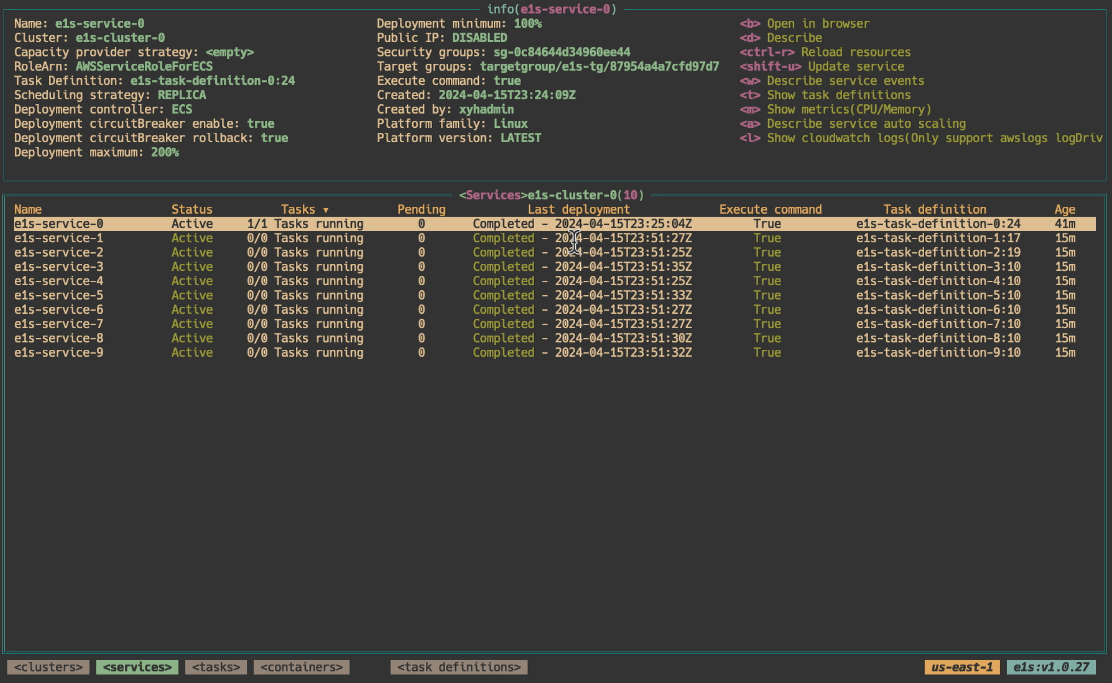
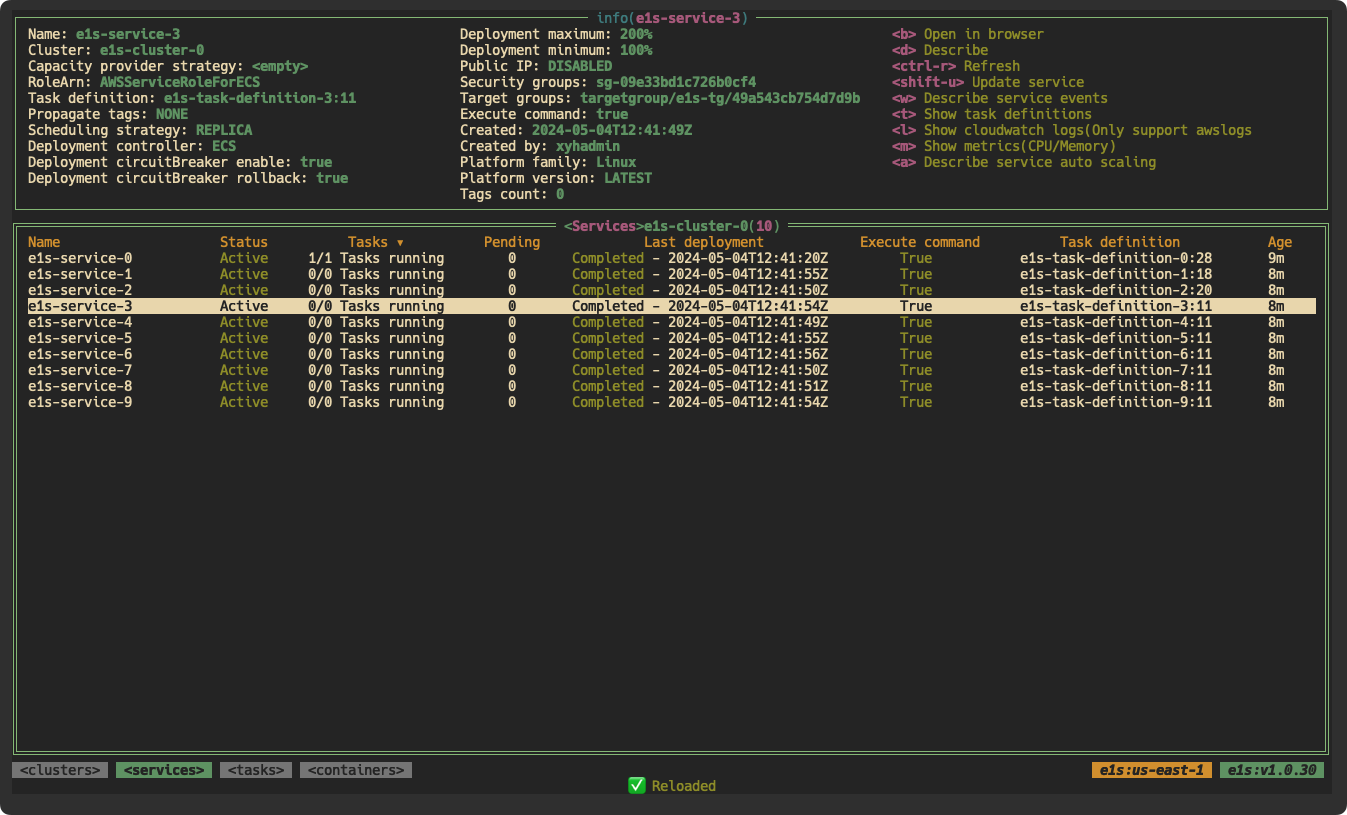
docs: update readme theme examples (#211)
* docs: update readme theme examples

* add help screenshot

Changed region(s): [[0.0, 0.0, 1.0, 1.0]]

diff --git a/README.md b/README.md
@@ -187,11 +187,33 @@ Default config file path is `$HOME/.config/e1s/config.yml`, it's possible specif
 
 ### Color theme
 
-Color theme can be specified by using colors from W3C color names, hex values, or RGB values in the config file with the `--config-file` option. Take a look at the [full example](https://github.com/keidarcy/dotfiles/blob/master/other-dot-config/.config/e1s/config.yml#L30-L57) in config file.
+Color theme can be specified by using colors from W3C color names, hex values, or RGB values in the config file with the `--config-file` option. Take a look at the examples below.
+
+<details>
+  <summary>hex example</summary>
+
+  - [config](https://github.com/keidarcy/dotfiles/blob/master/other-dot-config/.config/e1s/config.yml#L30-L43)
+
+  ![theme-hex](./assets/e1s-theme-hex.png)
+</details>
+
+<details>
+  <summary>w3c example</summary>
+
+  - [config](https://github.com/keidarcy/dotfiles/blob/master/other-dot-config/.config/e1s/config.yml#L45-L56)
+
+  ![theme-w3c](./assets/e1s-theme-w3c.png)
+</details>
 
 ### Key bindings
 
 Press `?` to check overall key bindings, top right corner to check current resource specific hot keys.
+
+<details>
+  <summary>help</summary>
+
+  ![help](./assets/e1s-help.png)
+</details>
 
 ### Development
 